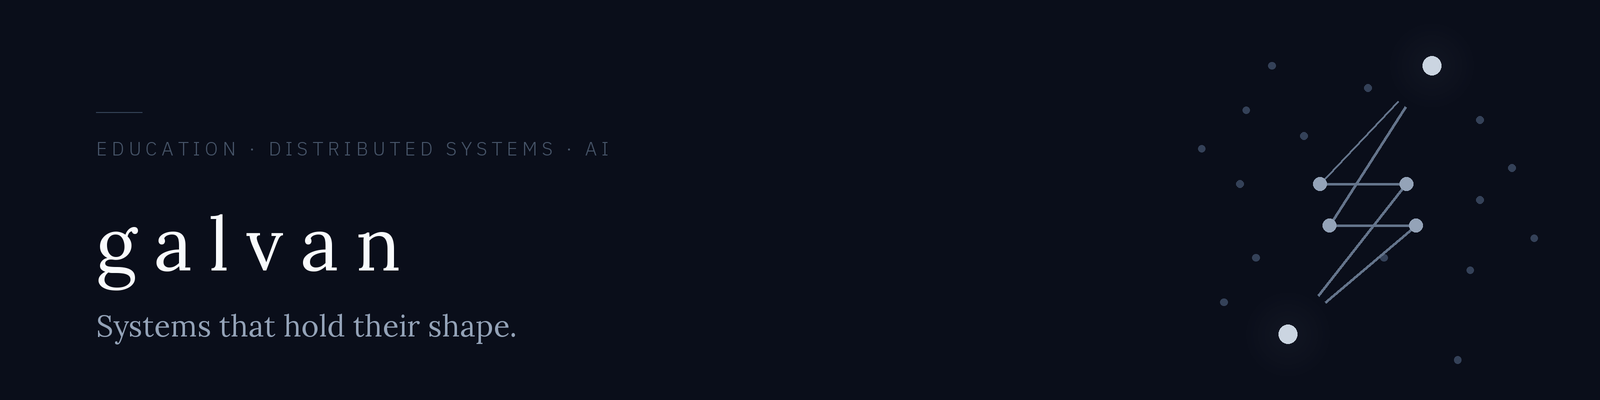
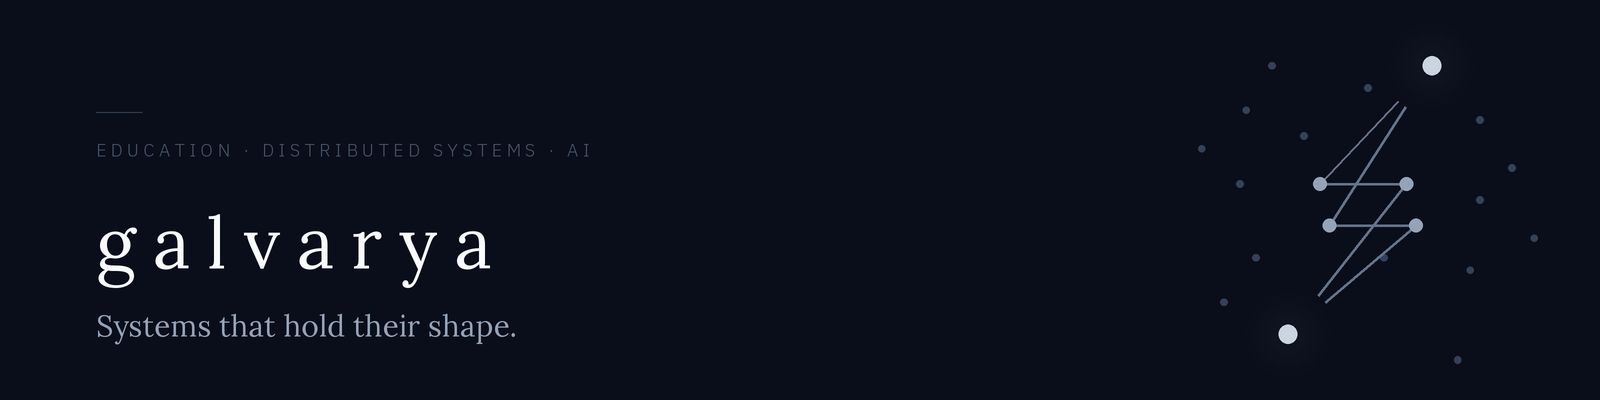
Galvan is now Galvarya
The organisation page, security policy and banner name the company as
Galvarya, link galvarya.com and hello@galvarya.com, and point at the renamed
GitHub organisation.

Changed region(s): [[0.0625, 0.54, 0.3125, 0.72], [0.0625, 0.36, 0.375, 0.39]]

diff --git a/profile/README.md b/profile/README.md
@@ -1,10 +1,10 @@
-<img src="https://raw.githubusercontent.com/Galvan-SRL/.github/main/profile/banner.png" alt="Galvan — systems that hold their shape" width="100%">
+<img src="https://raw.githubusercontent.com/Galvarya/.github/main/profile/banner.png" alt="Galvarya — systems that hold their shape" width="100%">
 
-**Galvan** is a software studio in Romania working across education, distributed
+**Galvarya** is a software studio in Romania working across education, distributed
 systems and artificial intelligence. Different domains, one discipline: understand
 the problem completely, then build the smallest thing that solves it.
 
-**[galvan.dev](https://galvan.dev)**
+**[galvarya.com](https://galvarya.com)**
 
 ---
 
@@ -41,7 +41,7 @@ operator who could be compelled to hand anything over.
 
 `Rust` · `iroh` · `Loro` · `redb` · `Tauri` — Linux, macOS, Windows, Android
 
-*In development. Downloads will be linked from [galvan.dev](https://galvan.dev).*
+*In development. Downloads will be linked from [galvarya.com](https://galvarya.com).*
 
 ---
 
@@ -66,6 +66,6 @@ become unnecessary.
 Tell us what is not working — we reply to every message ourselves, usually within
 two working days.
 
-**[hello@galvan.dev](mailto:hello@galvan.dev)** · **[galvan.dev](https://galvan.dev)**
+**[hello@galvarya.com](mailto:hello@galvarya.com)** · **[galvarya.com](https://galvarya.com)**
 
-<sub>Galvan SRL · Romania</sub>
+<sub>Galvarya · Romania</sub>

diff --git a/README.md b/README.md
@@ -1,10 +1,10 @@
 # .github
 
-Organisation-level files for **Galvan SRL**.
+Organisation-level files for **Galvarya**.
 
 | Path | What it does |
 |---|---|
-| `profile/README.md` | Renders as the public organisation page at [github.com/Galvan-SRL](https://github.com/Galvan-SRL) |
+| `profile/README.md` | Renders as the public organisation page at [github.com/Galvarya](https://github.com/Galvarya) |
 | `profile/banner.png` | The banner on that page — 1600×400, generated from the mark's own geometry and the brand palette |
 | `SECURITY.md` | Default vulnerability-reporting policy, inherited by every repo in the org that does not define its own |
 
@@ -20,6 +20,6 @@ path, because relative image paths do not resolve reliably when GitHub renders t
 profile outside the repository.
 
 Note that the profile is **public** while the organisation's product repositories
-are private, so the page links only to `galvan.dev` and `tomomi.app`. Do not add
+are private, so the page links only to `galvarya.com` and `tomomi.app`. Do not add
 repository links until the repository in question is public — they render as
 404s to anyone signed out.

diff --git a/SECURITY.md b/SECURITY.md
@@ -1,11 +1,11 @@
 # Security policy
 
-This policy applies to every Galvan SRL repository and to the software we ship —
+This policy applies to every Galvarya repository and to the software we ship —
 including [Tomomi](https://tomomi.app) and Soki.
 
 ## Reporting a vulnerability
 
-Email **[hello@galvan.dev](mailto:hello@galvan.dev)** with `SECURITY` in the
+Email **[hello@galvarya.com](mailto:hello@galvarya.com)** with `SECURITY` in the
 subject line. Please do not open a public issue for a suspected vulnerability.
 
 Useful things to include, as far as you have them:
